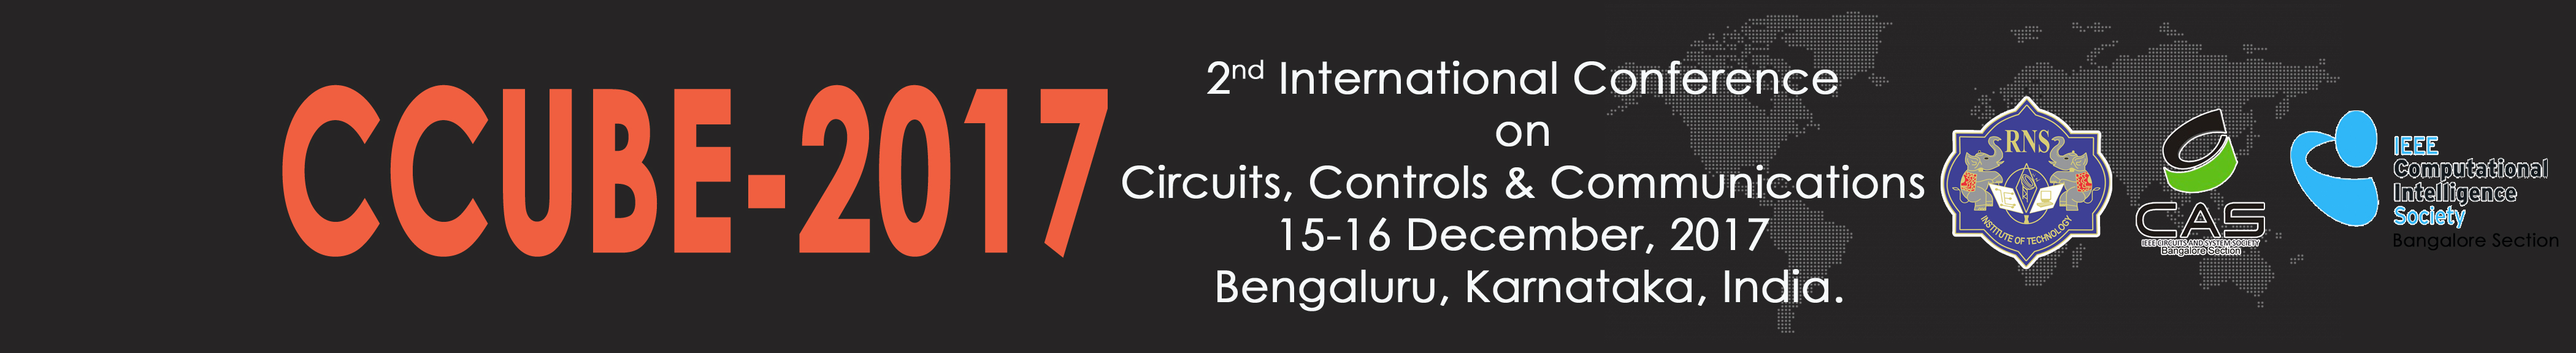
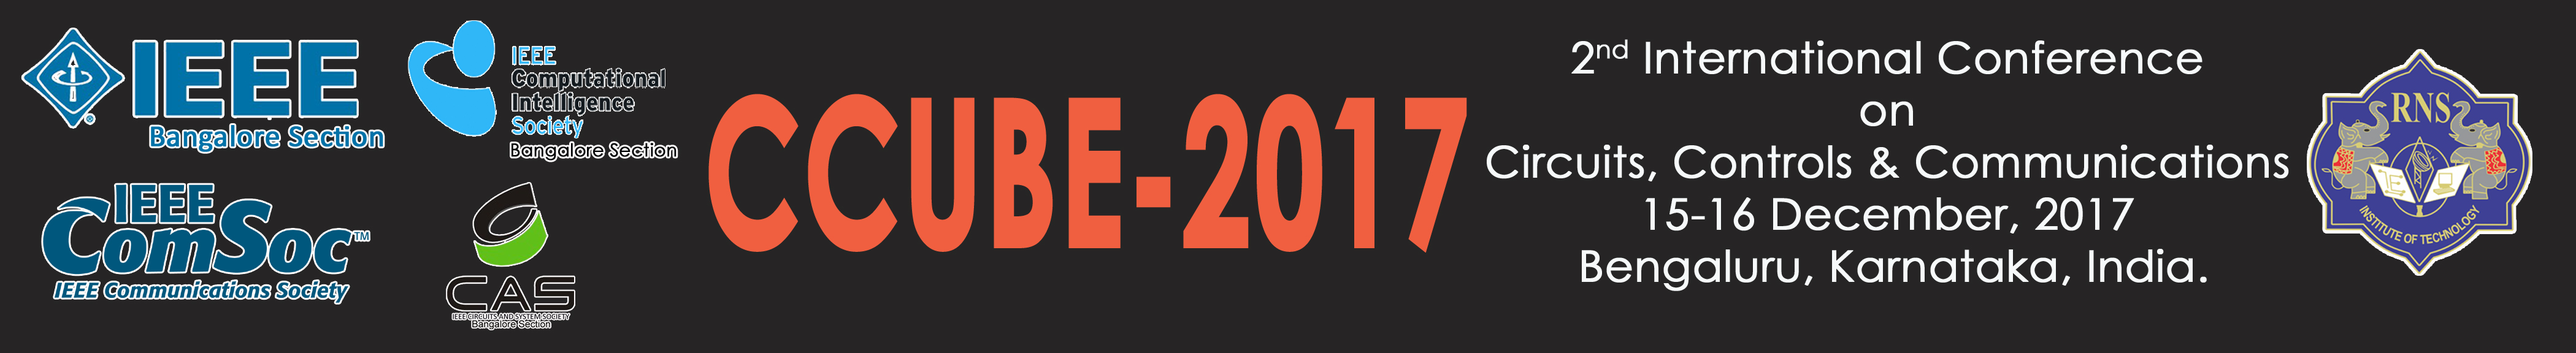
header update

diff --git a/_includes/nav.html b/_includes/nav.html
@@ -28,9 +28,9 @@
 
     <!-- /.container-fluid -->
 </nav>
-<!--
-<br><br> 
-<img src="img/headr2.jpg" style="width:100%">-->
+
+<br><br> <br> 
+<img src="img/headr2.jpg" style="width:100%">
 
 
 
